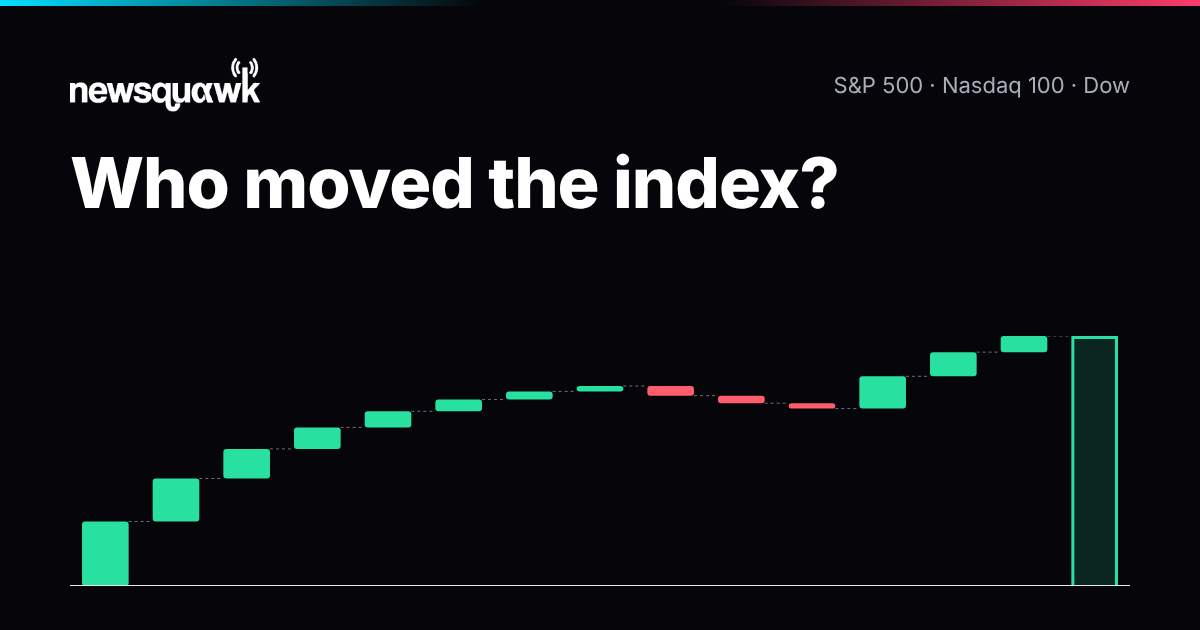
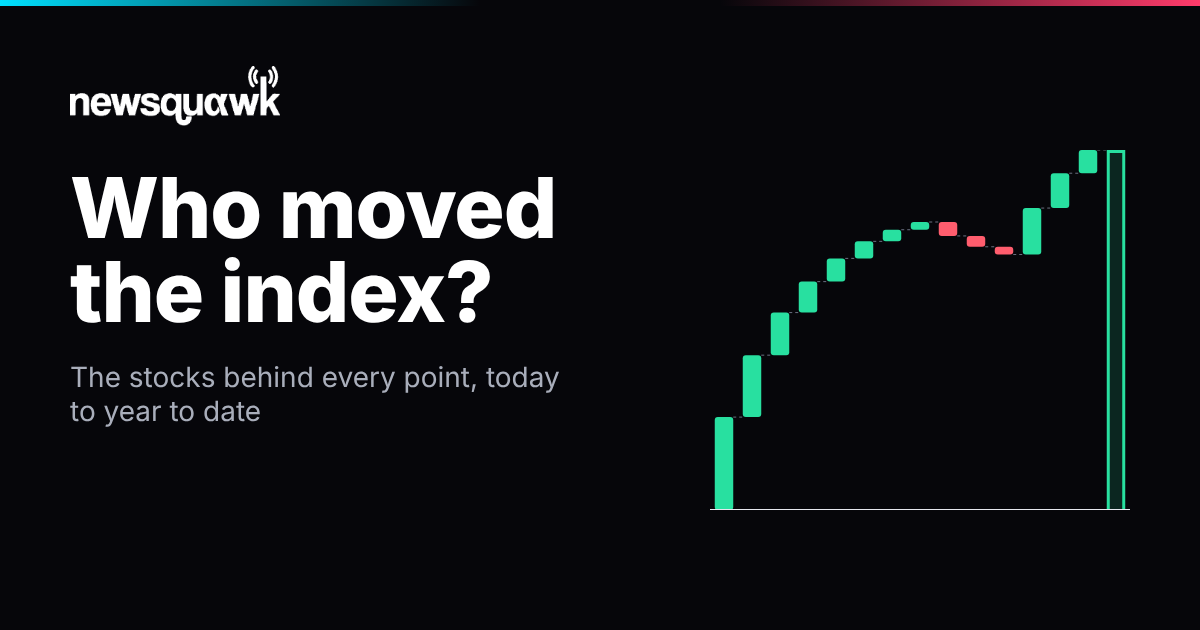
Link-preview image: option A
Claude-Session: https://claude.ai/code/session_01EqUoGo6BJwxbfwUJU5i18U

diff --git a/index.html b/index.html
@@ -14,7 +14,7 @@
 <meta property="og:image" content="https://mrmikerbrown-maker.github.io/index-contribution-site/og.png">
 <meta property="og:image:width" content="1200">
 <meta property="og:image:height" content="630">
-<meta property="og:image:alt" content="Newsquawk chart of the stocks behind the S&amp;P 500's move">
+<meta property="og:image:alt" content="Newsquawk: Who moved the index?">
 <meta name="twitter:card" content="summary_large_image">
 <meta name="twitter:title" content="Who moved the index?">
 <meta name="twitter:description" content="Which stocks and sectors moved the S&amp;P 500, Nasdaq 100 and Dow, in index points: today, this week, this month and this year.">

diff --git a/preview/index.html b/preview/index.html
@@ -15,7 +15,7 @@
 <meta property="og:image" content="https://mrmikerbrown-maker.github.io/index-contribution-site/og.png">
 <meta property="og:image:width" content="1200">
 <meta property="og:image:height" content="630">
-<meta property="og:image:alt" content="Newsquawk chart of the stocks behind the S&amp;P 500's move">
+<meta property="og:image:alt" content="Newsquawk: Who moved the index?">
 <meta name="twitter:card" content="summary_large_image">
 <meta name="twitter:title" content="Who moved the index?">
 <meta name="twitter:description" content="Which stocks and sectors moved the S&amp;P 500, Nasdaq 100 and Dow, in index points: today, this week, this month and this year.">
